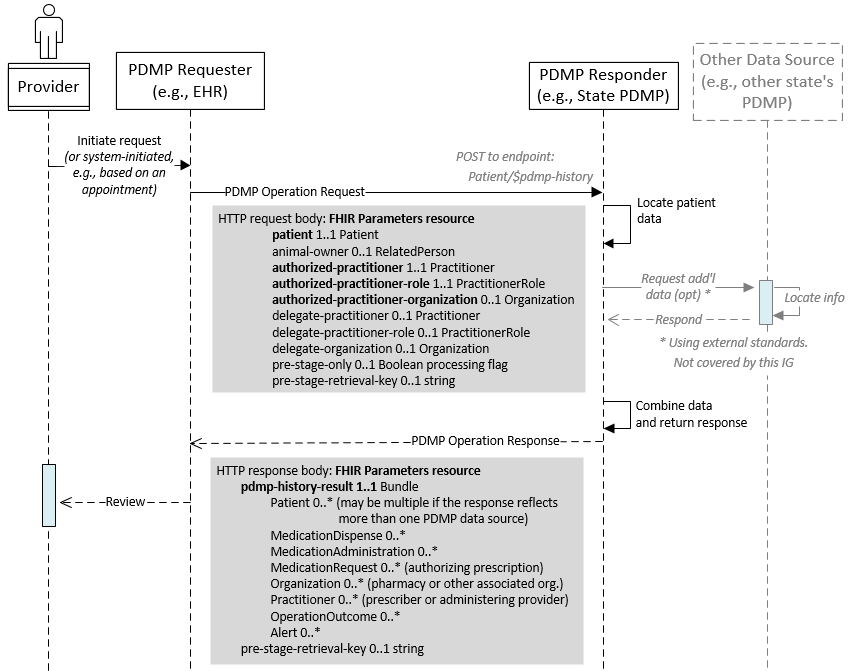
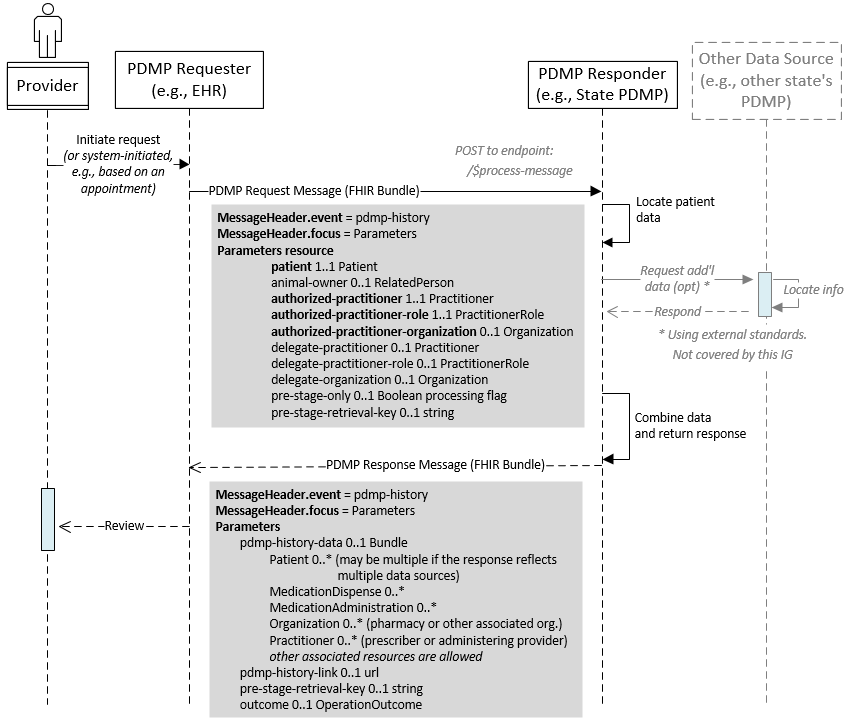
Bring operation definition up to date. Submission page updates. New error example

diff --git a/input/pagecontent/submission-options.md b/input/pagecontent/submission-options.md
@@ -1,4 +1,8 @@
-### PDMP `pdmp-history` operation
+This section describes how a PDMP Requester can retrieve a patient's information from a PDMP Responder by calling the `pdmp-history` operation directly or by submitting that operation request using FHIR messaging.
+
+<p></p>
+
+### PDMP History Operation
 
 The PDMP request and response are accomplished using a FHIR Operation ([pdmp-history](OperationDefinition-pdmp-history.html)) which is invoked by POSTing a FHIR Parameters resource containing patient and requesting provider details to the PDMP Responder's `Patient/$pdmp-history` endpoint. In response, the PDMP Responder gathers PDMP history information and returns it within another Parameters resource.
 
@@ -19,14 +23,16 @@ Use of an operation enables the process to support current PDMP processing requi
 
 - submission of requesting provider and delegate details and facility information which are used for authorization and record-keeping 
 - support for a "pre-stage-only" request processing option which instructs the PDMP Responder to tee up results to be returned in response to a subsequent request from the PDMP Requester
+- support for the return of PDMP history in the form of discrete FHIR data
+- support for the return of a URL for accessing a PDMP report.
 
-See the [pdmp-history OperationDefinition](OperationDefinition-pdmp-history.html) for full operation details.
+**Operation definition.** See the [pdmp-history OperationDefinition](OperationDefinition-pdmp-history.html) for an overview of the operation's inputs and outputs, and the following Parameter definitions for additional details:
+- [request parameter details](StructureDefinition-pdmp-parameters-request.html)
+- [response parameter details](StructureDefinition-pdmp-parameters-response.html)
 
-The operation can be called in two ways:
-- directly using a RESTful POST to the PDMP Responder's `[base]/Patient/$pdmp-history` endpoint
-- using FHIR messaging, by submitting the operation's request parameters within a bundle that also includes a MessageHeader that references the `pdmp-history` operation definition
-
-See [the messaging section below](submission-options.html#message-submission) for details on calling the `pdmp-history` operation using FHIR messaging.
+**Submission options.** The operation can be called in two ways:
+- **direct operation call** using a RESTful POST to the PDMP Responder's `[base]/Patient/$pdmp-history` endpoint
+- **using FHIR messaging**, by submitting the operation's request parameters within a bundle that also includes a MessageHeader that references the `pdmp-history` operation definition. See [the messaging section below](submission-options.html#message-submission) for details.
 
 <p></p>
 
@@ -70,29 +76,21 @@ Below is an illustration of submission through an intermediary:
 
 #### Request message content
 
-The PDMP Request message includes a MessageHeader and a Parameters resource containing the information needed to retrieve a single individual's information--including medication dispenses, administrations and related information--from a PDMP Responder. 
+The PDMP Request message includes a MessageHeader and a Parameters resource containing the information needed to retrieve a single individual's information from a PDMP Responder (see [request parameter details](StructureDefinition-pdmp-parameters-request.html)). Note that the MessageHeader.event of the request references the same [pdmp-history operation](OperationDefinition-pdmp-history.html) that can be invoked directly using a RESTful POST to in non-messaging environments.
 
-Specification details and examples are at [PDMP Bundle - Request Message](StructureDefinition-pdmp-bundle-request-message.html) 
+Further details and examples are at [PDMP Bundle - Request Message](StructureDefinition-pdmp-bundle-request-message.html) 
 
-Note that the MessageHeader.event of the request references the same [pdmp-history operation](OperationDefinition-pdmp-history.html) that can be invoked directly using a RESTful POST to in non-messaging environments.
 <p></p>
 
 #### Response message content
 
-The PDMP Response message contains a MessageHeader and a Parameters resource containing a Bundle holding:
-- medication dispenses, administrations and related details if the PDMP Responder is able to locate information for the requested patient
-- an OperationOutcome providing processing information including any errors that occurred or reasons for not returning patient information (e.g., no PDMP information found for the requested patient).
+The PDMP Response message contains a MessageHeader and the [response Parameters resource](StructureDefinition-pdmp-parameters-request.html) defined in the [pdmp-history operation](OperationDefinition-pdmp-history.html).
 
-In addition, the Parameters resource may include a `pre-stage-retrieval-key` string value if the associated request included a `pre-stage-only` parameter value of `true`.
-- When a `pre-stage-retrieval-key` is returned, the requester is expected to include the key when submitting a subsequent request to retrieve the pre-staged result.
+Further details and examples are at [PDMP Bundle - Response Message](StructureDefinition-pdmp-bundle-response-message.html) 
 
 <p></p>
 
-Details and examples are at [PDMP Bundle - Response Message](StructureDefinition-pdmp-bundle-response-message.html) 
-
-<p></p>
-
-#### Message submission
+#### Message submission details
 Invoking the `pdmp-history` operation via FHIR messaging is accomplished following the guidance provided in the [Invoking Operations via Messages](http://hl7.org/fhir/messaging.html#operations) section of the FHIR specification.
 
 **MessageHeader population**
@@ -116,85 +114,42 @@ PDMP messages are exchanged using standard FHIR messaging features.
 
 <p></p>
 
+### Returning Processing Information and Exceptions
 
-### Handling for processing exceptions
+This section provides guidance for PDMP Responders for responding in situations where the request cannot be processed in part or in whole, or where there is other processing information to be returned in the operation response.
 
-The section below provides guidance for PDMP Responders for responding in situations where the request cannot be processed in part or in whole.
+All scenarios described below communicate processing information using the operation's `outcome` parameter, which holds an OperationOutcome resource that gives the details of one or more processing aspects. This OperationOutcome contains:
+
+* a definition of severity in the `OperationOutcome.issue.severity` field which must come from [this FHIR value set](https://hl7.org/fhir/R4/valueset-issue-severity.html). 
+* a definition of the type of error in the `OperationOutcome.issue.code` element (e.g., `incomplete` transient error, `business-rule` processing error, etc.) which must come from [this FHIR value set](https://hl7.org/fhir/R4/valueset-issue-type.html).
+* additional diagnostic details of the error or other processing condition in `OperationOutcome.diagnostics` property
+* an `OperationOutcome.issue.details.coding.code` value to further define the processing condition
+* a human-readable version of the condition's details in the `OperationOutcome.issue.details.coding.display` field.
+
+PDMP Responders are expected to utilize codes and descriptive text in the `.diagnostics`' `.issue.details` elements that meet their existing conventions and/or jurisdictional requirements.
+
+<p></p>
+<p></p>
+
+_Below are expectations for returning processing information in common PDMP scenarios:_
 
 <p></p>
 
-#### Non-fatal exceptions
+#### Successful processing that doesn't return PDMP history
 
-If the PDMP Responder encounters a non-fatal exception when executing a request, the system SHALL include an OperationOutcome entry within the results Bundle describing the issue. The `search.mode` of this entry SHALL  be set to the value, `outcome`.
+When a PDMP Responder system successfully completes processing of a PDMP request but has no PDMP history to return (e.g., if the requested patient is not found) it  SHALL respond by returning an OperationOutcome resource within the `outcome` operation parameter that describes the reason that no history was returned, as show in [this example](Parameters-pdmp-history-output-parameters-3-patient-not-found.html).
 
-<pre>
-    {
-      "fullUrl" : "http://example.org/pdmp-a/Bundle/987654",
-      "resource" : {
-        "resourceType" : "Bundle",
-        "id" : "987654",
+<p></p>
 
-...
+#### Non-fatal processing exception
 
-        "entry" : [
-          {
-            "fullUrl" : "http://example.org/pdmp-a/OperationOutcome/100",
-            "resource" : {
-              "resourceType" : "OperationOutcome",
-              "id" : "100",
-              "issue" : [
-                {
-                  "severity" : "error",
-                  "code" : "processing",
-                  "diagnostics" : "The Wisconsin PDMP did not respond within the timeout period. Returning only records from the Minnesota PDMP"
-                }
-              ]
-            },
-            "search" : {
-              "mode" : "outcome"
-            }
-          }
-        ]
-      }
-    }
-</pre>
-
-TO BE ADDED: [Full PDMP Response example containing an exception]()
+If the PDMP Responder encounters a non-fatal exception when executing a request, which impacts the content of the response, the system SHALL include an OperationOutcome within the operation's `outcome` parameter describing the issue, as illustrated in [this example](Parameters-pdmp-history-output-parameters-6-non-fatal-warning.html). 
 
 <p></p>
 
 #### Error preventing completion of response processing
 
-When a PDMP Responder system encounters an error that prevents it from completing processing of a PDMP request, it  SHALL respond by returning an OperationOutcome resource within the results Bundle that describes the nature of the failure.
-
-The OperationOutcome:
-
-* SHALL contain a definition of severity in the `OperationOutcome.issue.severity` field. 
-* SHALL contain a definition of the type of error in the `OperationOutcome.issue.code` element.
-* SHOULD provide additional diagnostic details of the error in `OperationOutcome.diagnostics` property
-* SHOULD contain details of the error in the `OperationOutcome.issue.details.coding.display` field.
-* SHOULD contain an `OperationOutcome.issue.details.coding.code` value.
-
-TO BE ADDED: [Example]()
+When a PDMP Responder system encounters an error that prevents it from completing processing of a PDMP request, it  SHALL respond by returning an OperationOutcome resource within the `outcome` operation parameter that describes the nature of the failure, as show in [this example](Parameters-pdmp-history-output-parameters-7-fatal-error.html).
 
 <p></p>
-
-### Security considerations for messaging
-
-See the [Security](security.html) section for security and privacy guidance.
-
-### Integrating a PDMP web interface into the requester's system using SMART App Launch
-
-_to be added_
-
-
-
-The operation requesting patient PDMP history may also be invoked using FHIR messaging in environments where... 
-
-- the PDMP Responder only accepts requests via an intermediary
-- or the participants would otherwise benefit from messaging features such as inclusion of a MessageHeader to convey information for routing, logging or other purposes. 
-
-This page overviews the messaging workflow, message content and related considerations. See [the FHIR standard's messaging page](http://hl7.org/fhir/messaging.html) for additional details on FHIR messaging conventions.
-
-
-<br>
+<p></p>
